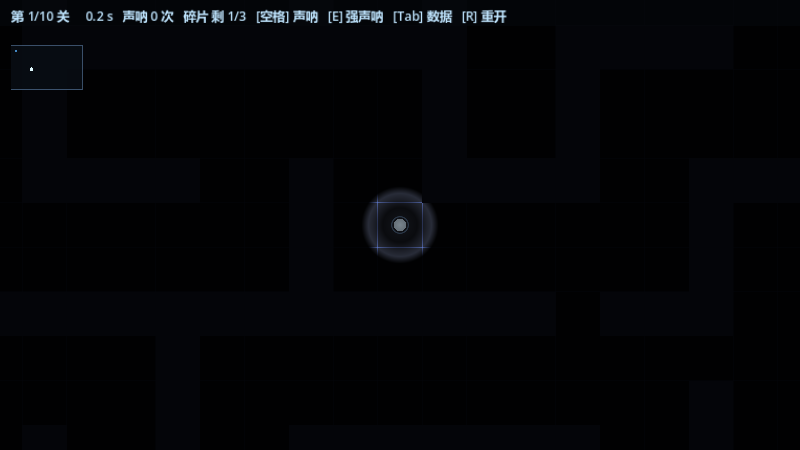
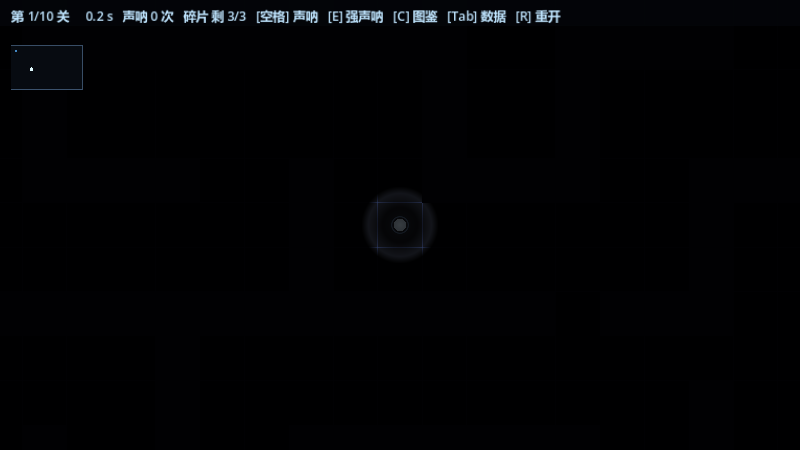
feat(hud): 状态栏加上 [C] 图鉴（和空格/E/Tab/R 排在一起）

Changed region(s): [[0.4375, 0.4044, 0.5625, 0.5911], [0.5, 0.0, 0.7188, 0.0622], [0.2812, 0.0311, 0.3125, 0.0622]]

diff --git a/README.md b/README.md
@@ -450,7 +450,7 @@ Godot_v4.7.2-stable_win64_console.exe --path <本目录> res://tools/selfcheck.t
 - `scripts/levels.gd` 存 5 张地图（43×25 / 52×31 / 61×34 / 67×37 / 76×43），由 `make_levels.py` 生成。
 - `autoload/progress.gd` 记当前关；通关后停 2 秒进下一关，最后一关显示「全 部 通 关」。
 - 难度靠两件事：地图变大、敌人数 0 / 1 / 1 / 2 / 2（第 1 关没有敌人，先练找路）。
-- `Tab` 面板与状态行显示「第 N/5 关」。
+- `Tab` 面板与状态行显示「第 N/10 关」。
 
 ### 强声呐（E）
 
